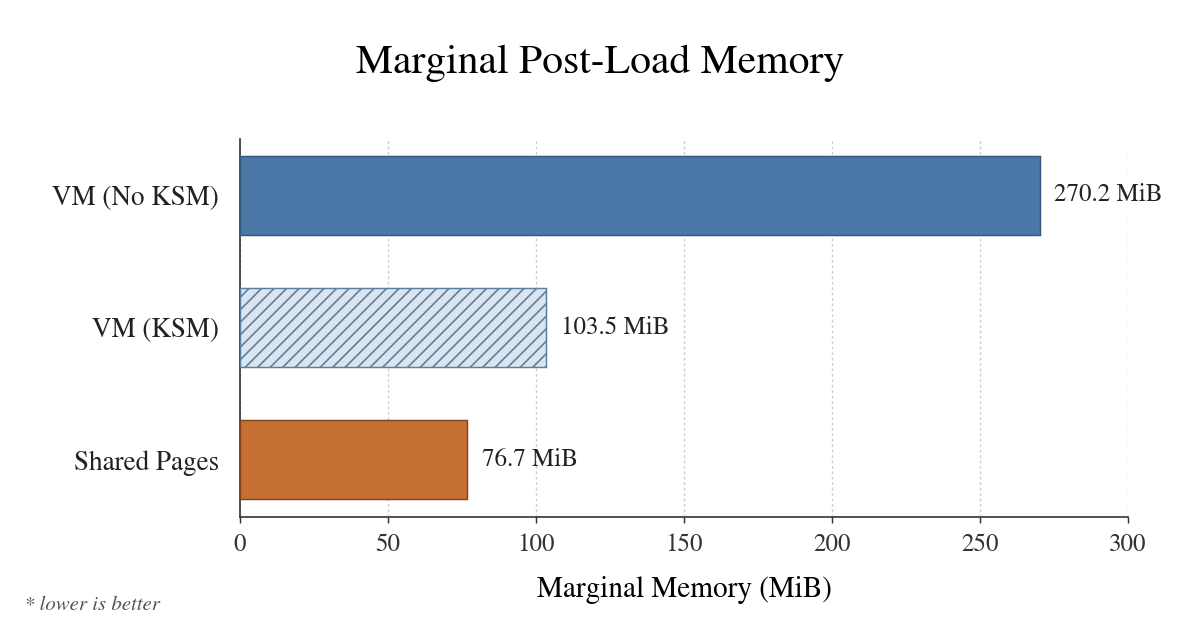
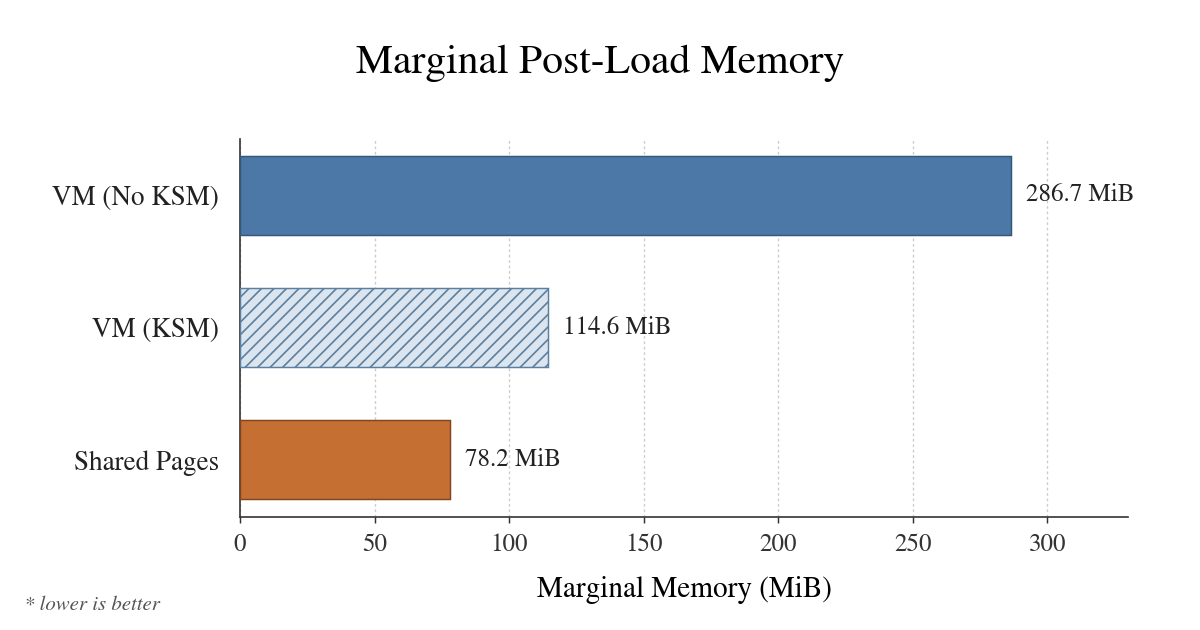
Update VM density benchmark results

diff --git a/_posts/2026-07-24-MultiplyingVMDensity.md b/_posts/2026-07-24-MultiplyingVMDensity.md
@@ -7,9 +7,15 @@ mermaid: true
 image:
   path: /assets/img/posts/multiplying-vm-density-marginal-memory.png
   alt:
-    "Marginal Post-Load Memory: 270.2 MiB for a NixOS VM, 103.5 MiB with
-    optional KSM, and 76.7 MiB for the shared-store design."
+    "Marginal Post-Load Memory: 286.7 MiB for a NixOS VM, 114.6 MiB with
+    optional KSM, and 78.2 MiB for the shared-store design."
 ---
+
+> An earlier version of this post used slightly different measurements. The
+> latest run measured a **4.1×** density improvement, as reported below.
+> However, the benchmark harness still shows a few unexplained variations
+> between runs, so I have kept the more conservative **3.5×** headline.
+{: .prompt-info }
 
 TL;DR: I tried to give each of my friends their own VM and accidentally
 discovered a way to run 3.5× as many VMs at once on the same cluster.\*
@@ -430,9 +436,6 @@ swap disabled.
 
 ## Results
 
-> **Drafting Note:** the benchmark harness and final measurements are not yet in
-> this repository. The figures shown are preliminary.
-
 For context, the known fixed costs: gVisor's Sentry adds
 [a few tens of MiB per sandbox](https://gvisor.dev/docs/architecture_guide/performance/),
 a stripped-down QEMU sits in the tens of MiB
@@ -447,12 +450,12 @@ storage.
 
 ### Time from Launch to Ready
 
-| Cache Condition     | Target              |      Median |         p95 | CPU Time to Ready | Failures |
-| ------------------- | ------------------- | ----------: | ----------: | ----------------: | -------: |
-| Host-cold           | NixOS VM            | **6.214 s** | **6.243 s** |       **4.196 s** | **0/30** |
-| Host-cold           | gVisor shared store | **3.843 s** | **3.909 s** |       **4.751 s** | **0/30** |
-| Cross-instance warm | NixOS VM            | **5.164 s** | **5.196 s** |       **3.976 s** | **0/30** |
-| Cross-instance warm | gVisor shared store | **2.553 s** | **2.638 s** |       **3.194 s** | **0/30** |
+| Cache Condition     | Target              |      Median |         p95 | CPU Time to Ready |
+| ------------------- | ------------------- | ----------: | ----------: | ----------------: |
+| Host-cold           | NixOS VM            | **6.214 s** | **6.243 s** |       **4.196 s** |
+| Host-cold           | gVisor shared store | **3.843 s** | **3.909 s** |       **4.751 s** |
+| Cross-instance warm | NixOS VM            | **5.164 s** | **5.196 s** |       **3.976 s** |
+| Cross-instance warm | gVisor shared store | **2.553 s** | **2.638 s** |       **3.194 s** |
 
 A minimal readiness daemon with a negligible closure acts as the control here:
 subtracting its launch time from nginx's separates platform startup from loading
@@ -462,21 +465,20 @@ and starting the actual workload.
 
 | Target              | Fixed Platform Cost | Marginal Idle Memory | Marginal Post-Load Memory | Maximum Healthy Instances |
 | ------------------- | ------------------: | -------------------: | ------------------------: | ------------------------: |
-| NixOS VM            |       **344.3 MiB** |        **269.3 MiB** |             **270.2 MiB** |                   **~59** |
-| gVisor shared store |       **290.3 MiB** |         **76.8 MiB** |              **76.7 MiB** |                  **~209** |
+| NixOS VM            |       **451.5 MiB** |        **291.0 MiB** |             **286.7 MiB** |                    **47** |
+| gVisor shared store |       **276.3 MiB** |         **78.3 MiB** |              **78.2 MiB** |                   **195** |
 
-Counts marked `~` project the measured fixed and marginal memory costs across
-the 16 GiB envelope.
+The instance counts are observed healthy maxima inside the envelope, not
+projections from marginal costs.
 
 The headline claim lives in this table, as both absolute counts and a ratio:
 
-> Within a host memory envelope of **16 GiB**, the measured costs project
-> **~209** healthy nginx instances for the shared-store gVisor design versus
-> **~59** NixOS VMs: **3.5×** as many. Its post-load marginal memory cost was
-> **76.7 MiB** per instance, compared with **270.2 MiB** for the conventional
-> VM.
+> Within a host memory envelope of **16 GiB**, the benchmark ran **195** healthy
+> nginx instances for the shared-store gVisor design versus **47** NixOS VMs:
+> **4.1×** as many. Its post-load marginal memory cost was **78.2 MiB** per
+> instance, compared with **286.7 MiB** for the conventional VM.
 
-\* The headline's asterisk, then: “3.5× more” counts simultaneously healthy
+\* The headline's asterisk, then: “3.5× as many” counts simultaneously healthy
 instances inside the same fixed host-RAM envelope, after a common nginx workload
 has made the relevant software resident. Both targets run the same pinned nginx
 build and configuration, use the same CPU allocation and direct network path,
@@ -507,19 +509,18 @@ upper layer and metadata.
 
 ### Nginx Throughput and Latency
 
-| Workload                | Target              |   Requests/s |          p50 |          p99 |       Errors |   Target CPU |
-| ----------------------- | ------------------- | -----------: | -----------: | -----------: | -----------: | -----------: |
-| Small, keep-alive, c=1  | NixOS VM            | **[RESULT]** | **[RESULT]** | **[RESULT]** | **[RESULT]** | **[RESULT]** |
-| Small, keep-alive, c=1  | gVisor shared store | **[RESULT]** | **[RESULT]** | **[RESULT]** | **[RESULT]** | **[RESULT]** |
-| Small, keep-alive, c=32 | NixOS VM            | **[RESULT]** | **[RESULT]** | **[RESULT]** | **[RESULT]** | **[RESULT]** |
-| Small, keep-alive, c=32 | gVisor shared store | **[RESULT]** | **[RESULT]** | **[RESULT]** | **[RESULT]** | **[RESULT]** |
-| 1 MiB, keep-alive, c=32 | NixOS VM            | **[RESULT]** | **[RESULT]** | **[RESULT]** | **[RESULT]** | **[RESULT]** |
-| 1 MiB, keep-alive, c=32 | gVisor shared store | **[RESULT]** | **[RESULT]** | **[RESULT]** | **[RESULT]** | **[RESULT]** |
+| Workload                | Target              | Requests/s |            p50 |            p99 |
+| ----------------------- | ------------------- | ---------: | -------------: | -------------: |
+| Small, keep-alive, c=1  | NixOS VM            |  **6,733** |   **0.140 ms** |   **0.185 ms** |
+| Small, keep-alive, c=1  | gVisor shared store |  **3,938** |   **0.250 ms** |   **0.290 ms** |
+| Small, keep-alive, c=32 | NixOS VM            |  **8,234** |   **3.872 ms** |   **4.228 ms** |
+| Small, keep-alive, c=32 | gVisor shared store | **38,381** |   **0.798 ms** |   **1.292 ms** |
+| 1 MiB, keep-alive, c=32 | NixOS VM            |  **275.2** | **116.452 ms** | **119.752 ms** |
+| 1 MiB, keep-alive, c=32 | gVisor shared store |  **373.3** |  **85.701 ms** |  **87.157 ms** |
 
-We measure performance alongside density because packing more VMs onto the same
-cluster is worthless if each becomes too slow to use. The benchmark tracks
-requests per second, tail latency (p99), errors, and CPU use. An instance counts
-toward either system's density only while it clears the same responsiveness bar.
+Each figure is the median of three 60-second measurements. We measure
+performance alongside density because packing more VMs onto the same cluster is
+worthless if each becomes too slow to use.
 
 ### Density with KSM Enabled
 
@@ -528,20 +529,18 @@ for the conventional VMs, and charge the scanner's CPU time to the VM side:
 
 | Configuration       | Marginal Post-Load Memory | Maximum Healthy Instances |     ksmd CPU |
 | ------------------- | ------------------------: | ------------------------: | -----------: |
-| NixOS VM, KSM on    |             **103.5 MiB** |                  **~155** | **115.86 s** |
-| NixOS VM, KSM off   |             **270.2 MiB** |                   **~59** |            — |
-| gVisor shared store |              **76.7 MiB** |                  **~209** |            — |
+| NixOS VM, KSM on    |             **114.6 MiB** |                   **142** | **245.48 s** |
+| NixOS VM, KSM off   |             **286.7 MiB** |                    **47** |            — |
+| gVisor shared store |              **78.2 MiB** |                   **195** |            — |
 
-The `~` counts use the same fixed-plus-marginal projection as above.
-
-Turning KSM on cut marginal memory by 166.7 MiB per VM, from 270.2 MiB to 103.5
-MiB, a reduction of 62%. That still left each VM 26.7 MiB above the gVisor
+Turning KSM on cut marginal memory by 172.1 MiB per VM, from 286.7 MiB to 114.6
+MiB, a reduction of 60%. That still left each VM 36.4 MiB above the gVisor
 design. Each VM carries QEMU and its supporting virtualization state, while the
 gVisor solution may have lower per-instance runtime overhead. So, the remaining
 gap is therefore not necessarily memory that KSM failed to deduplicate.
 
 However, KSM saves memory only after `ksmd` has scanned newly loaded pages,
-found duplicates, and merged them. The measured 62% reduction is steady-state
+found duplicates, and merged them. The measured 60% reduction is steady-state
 memory use, recorded after KSM's shared-page count had had time to stabilize.
 When several VMs load the same resource, each initially keeps its own copy in
 RAM, so memory rises until `ksmd` finds and merges those copies. `ksmd` also
